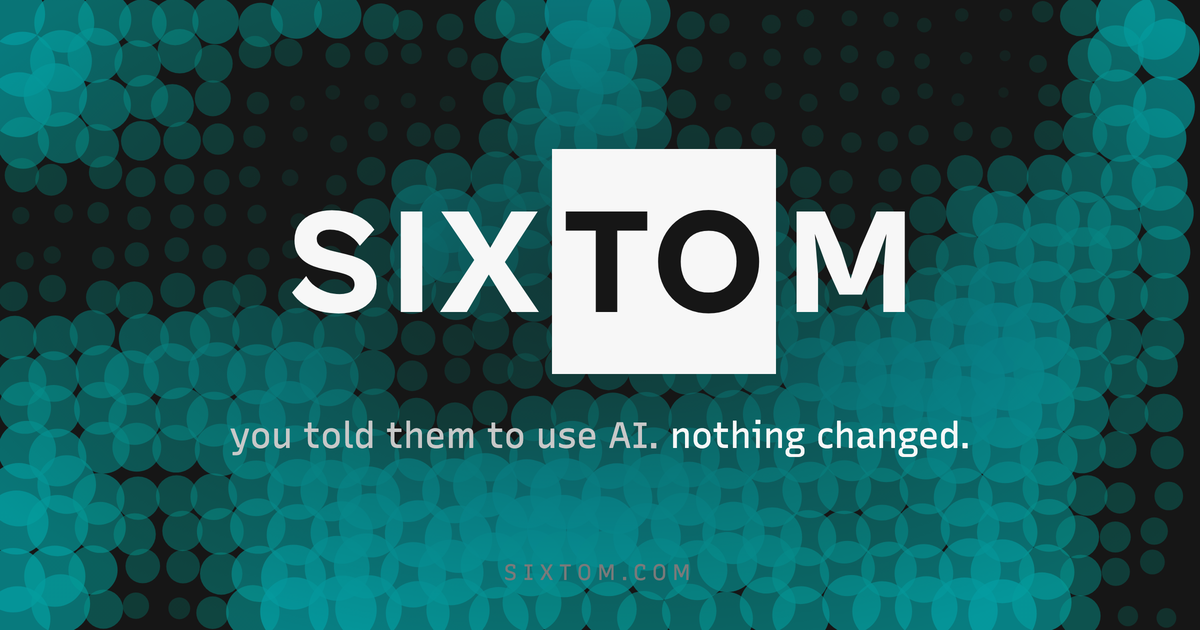
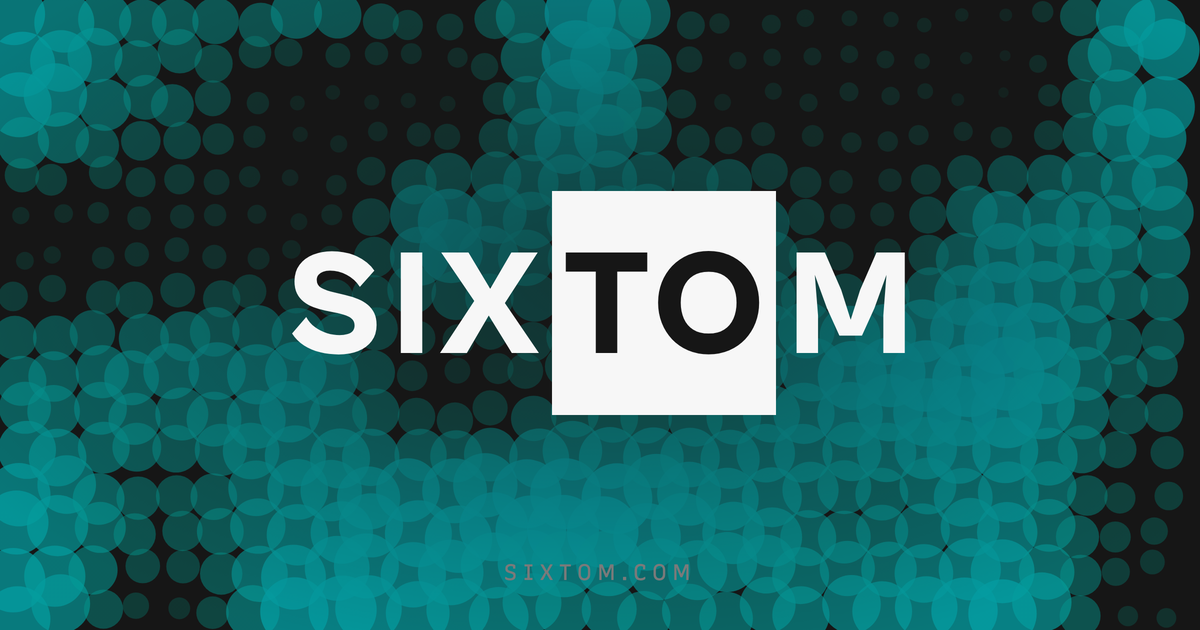
feat(og): brand-only social card, vague link preview
The OG image drops the headline and keeps just the SIXTOM mark: the offer
changes, the card shouldn't have to be re-baked each time. Link previews on
the homepage now read "SIXTOM" + the site tagline via a new socialTitle prop
on PageMeta; search keeps the specific title and description.

Claude-Session: https://claude.ai/code/session_01SxQq3fhB7amT4NeEUMVNk9

Changed region(s): [[0.185, 0.3317, 0.8017, 0.7238], [0.4625, 0.2111, 0.6475, 0.3016]]

diff --git a/src/routes/+page.svelte b/src/routes/+page.svelte
@@ -12,18 +12,14 @@
 	const bodyClass = 'text-fg-muted mt-6 max-w-2xl text-base leading-relaxed md:text-lg'
 	const usd = (n: number) => `$${n.toLocaleString('en-US')}`
 
-	// One string, three tags: og and twitter drift apart the moment they are
-	// edited separately.
-	const socialDescription =
-		'two weeks, one team. your person ships a real system by day 10, or the rest is free. $15,000, one team a month.'
+	const description =
+		'the enablement engagement: two weeks, one team. your person ships a real system by day 10, or the rest is free. $15,000, one team a month.'
 	const pageTitle = `SIXTOM — ${o.headline}`
 </script>
 
-<PageMeta
-	title={pageTitle}
-	description="the enablement engagement: {socialDescription}"
-	{socialDescription}
-/>
+<!-- Link previews stay vague on purpose: the offer changes, the brand doesn't.
+     Search keeps the specific title and description. -->
+<PageMeta title={pageTitle} {description} socialTitle="SIXTOM" socialDescription={site.tagline} />
 
 <Hero />
 

diff --git a/src/lib/components/PageMeta.svelte b/src/lib/components/PageMeta.svelte
@@ -7,15 +7,21 @@
 	let {
 		title,
 		description,
-		socialDescription = description
-	}: { title: string; description: string; socialDescription?: string } = $props()
+		socialDescription = description,
+		socialTitle = title
+	}: {
+		title: string
+		description: string
+		socialDescription?: string
+		socialTitle?: string
+	} = $props()
 </script>
 
 <svelte:head>
 	<title>{title}</title>
 	<meta name="description" content={description} />
-	<meta property="og:title" content={title} />
+	<meta property="og:title" content={socialTitle} />
 	<meta property="og:description" content={socialDescription} />
-	<meta name="twitter:title" content={title} />
+	<meta name="twitter:title" content={socialTitle} />
 	<meta name="twitter:description" content={socialDescription} />
 </svelte:head>
